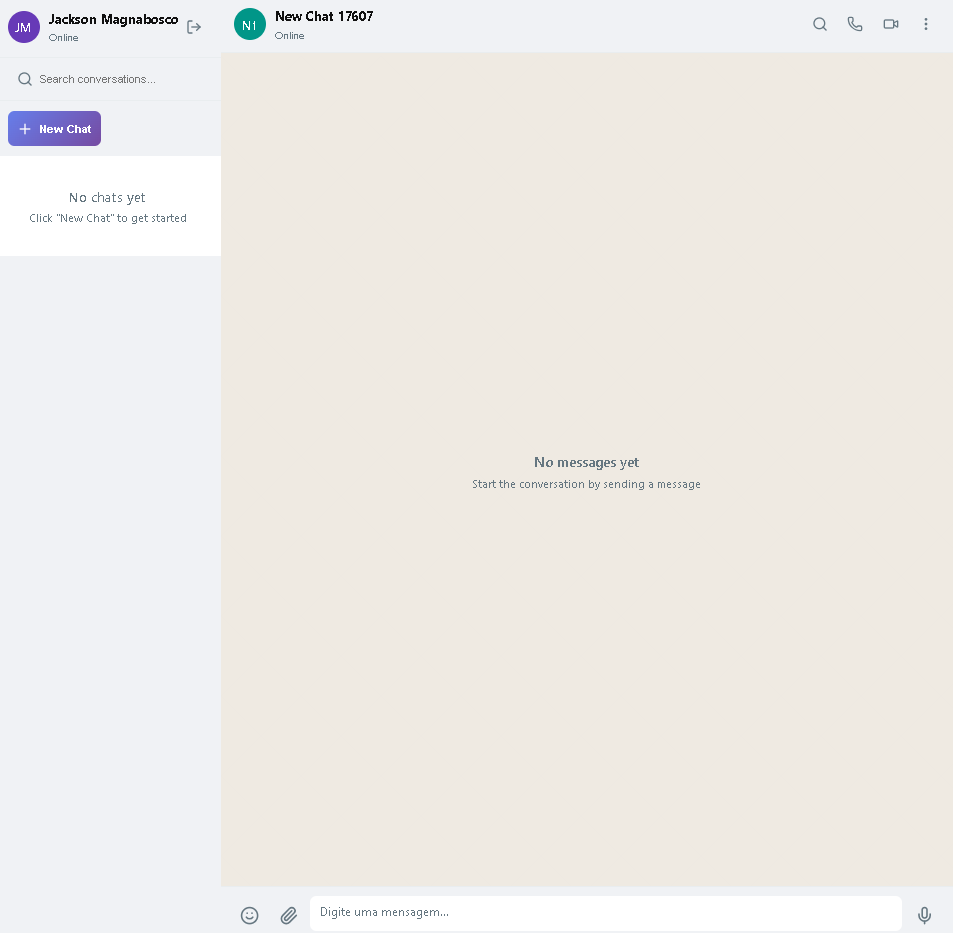
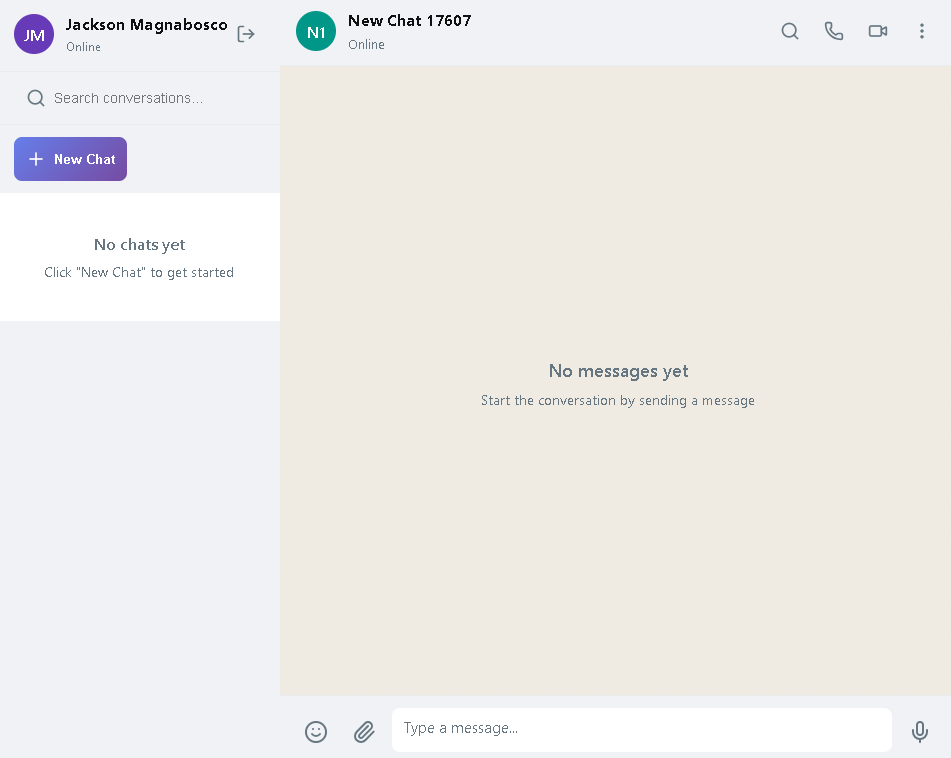
Update Readme.md

diff --git a/frontend/src/components/Chat/MessageItem.jsx b/frontend/src/components/Chat/MessageItem.jsx
@@ -1,8 +1,8 @@
-import React, { useState } from 'react';
-import { useChat } from '../../hooks/useChat';
-import { Edit2, Trash2, Check, CheckCheck } from 'lucide-react';
-import { formatMessageTime } from '../../utils/formatDate';
-import './MessageItem.css';
+import React, { useState } from "react";
+import { useChat } from "../../hooks/useChat";
+import { Edit2, Trash2, Check, CheckCheck } from "lucide-react";
+import { formatMessageTime } from "../../utils/formatDate";
+import "./MessageItem.css";
 
 const MessageItem = ({ message, isOwn }) => {
   const { editMessage, deleteMessage } = useChat();
@@ -18,14 +18,14 @@ const MessageItem = ({ message, isOwn }) => {
   };
 
   const handleDelete = () => {
-    if (window.confirm('Deseja realmente deletar esta mensagem?')) {
+    if (window.confirm("Are you sure you want to delete this message?")) {
       deleteMessage(message._id);
     }
   };
 
   return (
     <div
-      className={`message-item ${isOwn ? 'own' : 'other'}`}
+      className={`message-item ${isOwn ? "own" : "other"}`}
       onMouseEnter={() => setShowActions(true)}
       onMouseLeave={() => setShowActions(false)}
     >
@@ -35,7 +35,7 @@ const MessageItem = ({ message, isOwn }) => {
             type="text"
             value={editContent}
             onChange={(e) => setEditContent(e.target.value)}
-            onKeyPress={(e) => e.key === 'Enter' && handleEdit()}
+            onKeyPress={(e) => e.key === "Enter" && handleEdit()}
             autoFocus
           />
           <div className="edit-actions">

diff --git a/frontend/src/components/Chat/ChatList.jsx b/frontend/src/components/Chat/ChatList.jsx
@@ -37,7 +37,7 @@ const ChatList = ({ chats, activeChat, onSelectChat }) => {
                 <p className="last-message">
                   {chat.lastMessage?.content
                     ? truncateText(chat.lastMessage.content, 40)
-                    : "Nenhuma mensagem"}
+                    : "No mensages"}
                 </p>
                 {chat.unreadCount > 0 && (
                   <span className="unread-badge">{chat.unreadCount}</span>

diff --git a/frontend/src/components/Chat/MessageInput.jsx b/frontend/src/components/Chat/MessageInput.jsx
@@ -66,7 +66,7 @@ const MessageInput = () => {
           value={message}
           onChange={handleInputChange}
           onKeyPress={handleKeyPress}
-          placeholder="Digite uma mensagem..."
+          placeholder="Type a message..."
           rows={1}
           className="message-input"
         />
